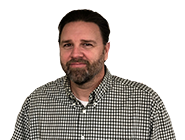
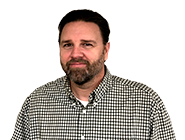
Added more contact pictures

diff --git a/www.swosu.edu/administration/reslife/contact.html b/www.swosu.edu/administration/reslife/contact.html
@@ -204,6 +204,8 @@ j=d.createElement(s),dl=l!='dataLayer'?'&l='+l:'';j.async=true;j.src=
         <div class="breadcrumbs"><a href="http://www.swosu.edu/administration">Administration</a> &gt; <a href="http://www.swosu.edu/administration/reslife/index.aspx">Residence Life &amp; Housing</a> &gt; Staff &amp; Contact Info</div>
         <h1>Administration</h1>
         <div>
+			
+			<!-- DIRECTOR -->
           <div class="card" style="background: url(./images/staff/cmartin.png) white no-repeat right; background-size: contain">
             <div style="display: inline-block; width: 80%; vertical-align: top; padding-right: 10px;">
               <h2>Chad Martin</h2>
@@ -221,6 +223,8 @@ j=d.createElement(s),dl=l!='dataLayer'?'&l='+l:'';j.async=true;j.src=
               </table>
             </div>
           </div>
+			
+			
           <div class="card" style="background: url(./images/staff/jbarr.png) white no-repeat right; background-size: contain">
             <div style="display: inline-block; width: 80%; vertical-align: top; padding-right: 10px;">
               <h2>Jason Barr</h2>
@@ -279,7 +283,6 @@ j=d.createElement(s),dl=l!='dataLayer'?'&l='+l:'';j.async=true;j.src=
                 </tr>
               </table>
             </div>
-            <div style="display: inline-block; width: 39%; text-align: right"> <img style="display: inline; width: 48%; vertical-align: middle" alt="Black Kettle Hall" src="http://www.swosu.edu/administration/reslife/images/black-kettle/bk-vertical.jpg"/> <img style="display: inline; width: 48%; vertical-align: middle" alt="Alyssa Bane" src="http://www.swosu.edu/administration/reslife/images/staff/abane.jpg"/> </div>
           </div>
           <div class="card">
             <div style="display: inline-block; width: 60%; vertical-align: top; padding-right: 10px;">
@@ -301,10 +304,30 @@ j=d.createElement(s),dl=l!='dataLayer'?'&l='+l:'';j.async=true;j.src=
                 </tr>
               </table>
             </div>
-            <div style="display: inline-block; width: 39%"> <img alt="Jefferson Hall" style="display: inline; width: 49%; vertical-align: middle" src="http://www.swosu.edu/administration/reslife/images/m-j-hall/jefferson-v.jpg"/> <img style="display: inline; width: 49%; vertical-align: middle" alt="Alyssa Bane" src="http://www.swosu.edu/administration/reslife/images/staff/abane.jpg"/> </div>
           </div>
-          <div class="card">
+			<div class="card">
             <div style="display: inline-block; width: 60%; vertical-align: top; padding-right: 10px;">
+              <h2>Mann Hall</h2>
+              <h3 class="caption">Alyssa Bane - Housing Coordinator</h3>
+              <hr>
+              <table class="card">
+                <tr>
+                  <td class="strong">Front Desk Phone</td>
+                  <td>(580) 774-6400</td>
+                </tr>
+                <tr>
+                  <td class="strong">Housing Coordinator Phone</td>
+                  <td>(580) 774-3755</td>
+                </tr>
+                <tr>
+                  <td class="strong">Housing Coordinator Email</td>
+                  <td><a href="mailto:alyssa.bane@swosu.edu">alyssa.bane@swosu.edu</a></td>
+                </tr>
+              </table>
+            </div>
+          </div>
+          <div class="card" style="background: url(./images/staff/coller.png) white no-repeat; background-position: right; background-size: contain">
+            <div style="display: inline-block; width: 62%; vertical-align: top; padding-right: 10px;">
               <h2>Neff Hall</h2>
               <h3 class="caption">Cade Oller - Housing Coordinator</h3>
               <hr>
@@ -323,7 +346,6 @@ j=d.createElement(s),dl=l!='dataLayer'?'&l='+l:'';j.async=true;j.src=
                 </tr>
               </table>
             </div>
-            <div style="display: inline-block; width: 39%"> <img alt="Neff Hall" style="display: inline; width: 49%; vertical-align: middle" src="http://www.swosu.edu/administration/reslife/images/neff-hall/neff-v.jpg"/> <img style="display: inline; width: 49%; vertical-align: middle" alt="Cade Oller" src="http://www.swosu.edu/administration/reslife/images/staff/coller.jpg"/> </div>
           </div>
           <div class="card" style="background: url(./images/staff/hgraham.png) white no-repeat; background-position: right -50px top; background-size: contain">
             <div style="display: inline-block; width: 62%; vertical-align: top; padding-right: 10px;">
@@ -345,31 +367,9 @@ j=d.createElement(s),dl=l!='dataLayer'?'&l='+l:'';j.async=true;j.src=
                 </tr>
               </table>
             </div>
-          </div>
-          <div class="card">
-            <div style="display: inline-block; width: 60%; vertical-align: top; padding-right: 10px;">
-              <h2>Mann Hall</h2>
-              <h3 class="caption">Alyssa Bane - Housing Coordinator</h3>
-              <hr>
-              <table class="card">
-                <tr>
-                  <td class="strong">Front Desk Phone</td>
-                  <td>(580) 774-6400</td>
-                </tr>
-                <tr>
-                  <td class="strong">Housing Coordinator Phone</td>
-                  <td>(580) 774-3755</td>
-                </tr>
-                <tr>
-                  <td class="strong">Housing Coordinator Email</td>
-                  <td><a href="mailto:alyssa.bane@swosu.edu">alyssa.bane@swosu.edu</a></td>
-                </tr>
-              </table>
-            </div>
-            <div style="display: inline-block; width: 39%"> <img alt="Mann Hall" style="display: inline; width: 49%; vertical-align: middle" src="http://www.swosu.edu/administration/reslife/images/m-j-hall/mann-v.jpg"/> <img style="display: inline; width: 49%; vertical-align: middle" alt="Alyssa Bane" src="http://www.swosu.edu/administration/reslife/images/staff/abane.jpg"/> </div>
-          </div>
-          <div class="card">
-            <div style="display: inline-block; width: 60%; vertical-align: top; padding-right: 10px;">
+			</div>
+          <div class="card" style="background: url(./images/staff/vfeldkamp.png) white no-repeat; background-position: right 3px top; background-size: contain">
+            <div style="display: inline-block; width: 62%; vertical-align: top; padding-right: 10px;">
               <h2>Stewart Hall</h2>
               <h3 class="caption">Victoria Feldkamp - Housing Coordinator</h3>
               <hr>
@@ -388,47 +388,36 @@ j=d.createElement(s),dl=l!='dataLayer'?'&l='+l:'';j.async=true;j.src=
                 </tr>
               </table>
             </div>
-            <div style="display: inline-block; width: 39%"> <img alt="Stewart Hall" style="display: inline; width: 49%; vertical-align: middle" src="http://www.swosu.edu/administration/reslife/images/stewart-hall/stewart-v.jpg"/> <img style="display: inline; width: 49%; vertical-align: middle" alt="Victoria Feldkamp" src="http://www.swosu.edu/administration/reslife/images/staff/vfeldkamp.jpg"/> </div>
           </div>
         </div>
         <hr>
         <h1>Technical Staff</h1>
         <div>
-          <div class="card">
+          <div class="card" style="background: url(./images/staff/grainey.png) white no-repeat right -20px top; margin-right: 10px; background-size: contain; width: 48.9%; display: inline-block">
             <div style="display: inline-block; width: 80%; vertical-align: top; padding-right: 10px;">
               <h2>George Rainey</h2>
-              <h3 class="caption">Housing Maintenance Technician</h3>
+              <h3 class="caption">Maintenance Technician</h3>
               <hr>
               <table class="card">
-                <tr>
-                  <td class="strong">Phone</td>
-                  <td>(580) 774-3273</td>
-                </tr>
                 <tr>
                   <td class="strong">Email</td>
                   <td><a href="mailto:george.rainey@swosu.edu">george.rainey@swosu.edu</a></td>
                 </tr>
               </table>
             </div>
-            <div style="display: inline-block; width: 19%"> <img alt="George Rainey" src="http://www.swosu.edu/administration/reslife/images/staff/grainey.jpg"/> </div>
           </div>
-          <div class="card">
+          <div class="card" style="background: url(./images/staff/tcrews.png) white no-repeat right -30px top; background-size: contain; width: 48.9%; display: inline-block">
             <div style="display: inline-block; width: 80%; vertical-align: top; padding-right: 10px;">
               <h2>Tommy Crews</h2>
-              <h3 class="caption">Marketing Communications Specialist</h3>
+              <h3 class="caption">Marketing Specialist</h3>
               <hr>
               <table class="card">
-                <tr>
-                  <td class="strong">Phone</td>
-                  <td>(580) 774-3273</td>
-                </tr>
                 <tr>
                   <td class="strong">Email</td>
                   <td><a href="mailto:crewst@student.swosu.edu">crewst@student.swosu.edu</a></td>
                 </tr>
               </table>
             </div>
-            <div style="display: inline-block; width: 19%"> <img alt="Tommy Crews" src="http://www.swosu.edu/administration/reslife/staff/me.jpg"/> </div>
           </div>
         </div>
         <hr>
